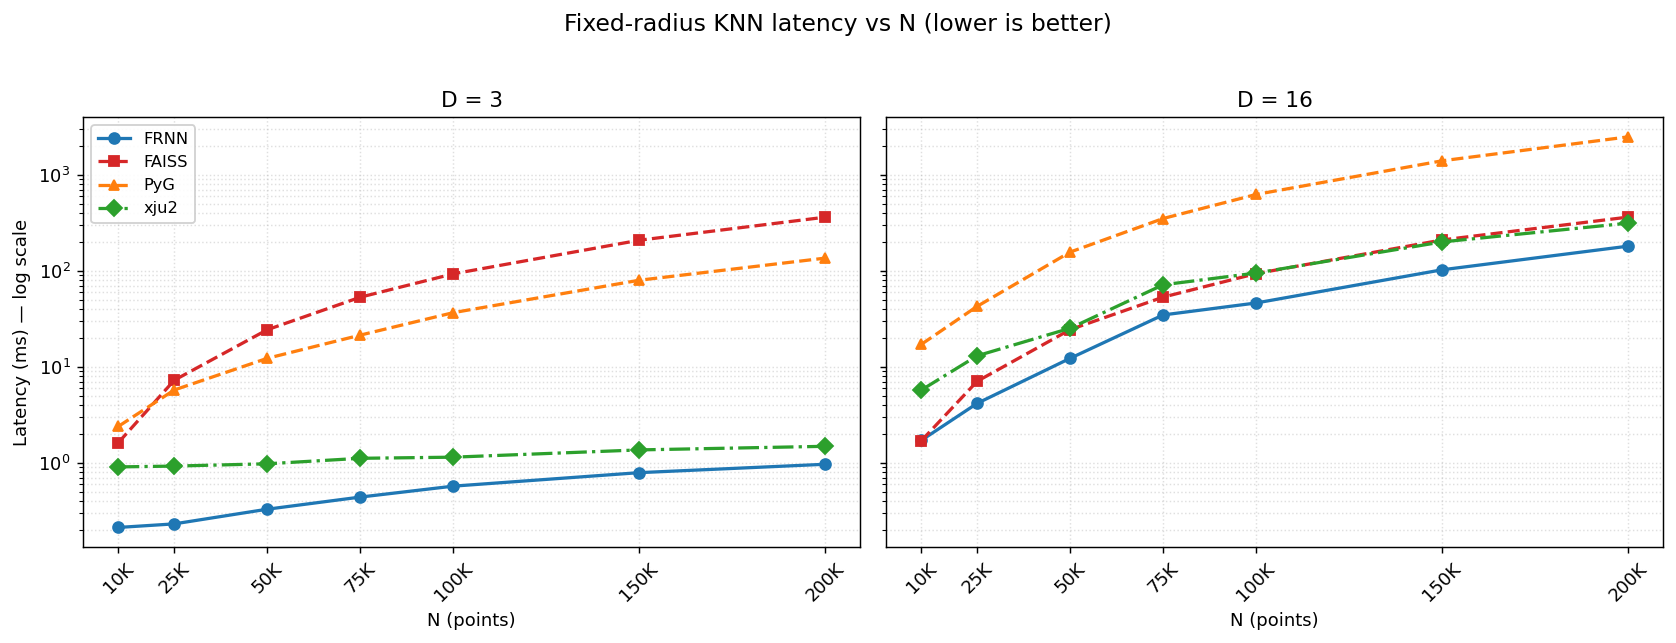
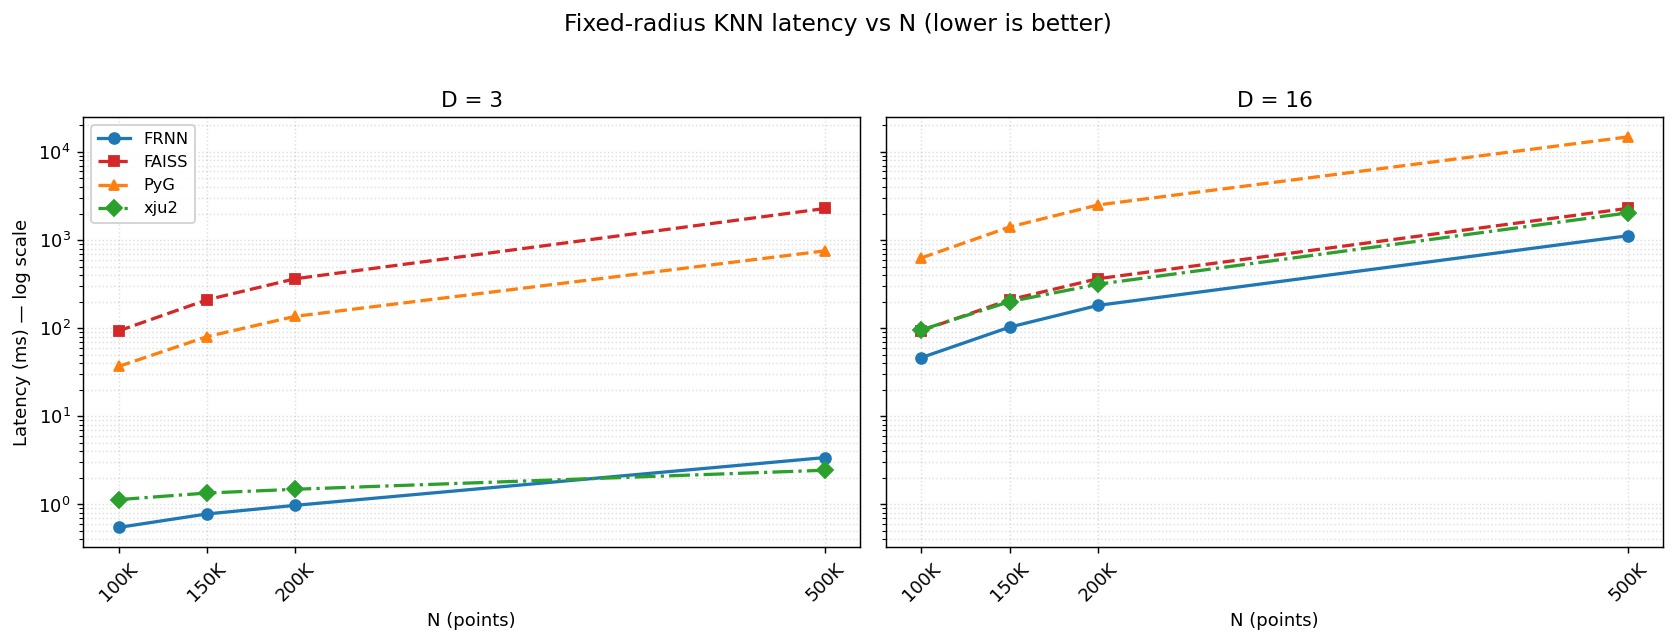
Changed N_sweep values

diff --git a/Tests/benchmark_master.py b/Tests/benchmark_master.py
@@ -24,7 +24,7 @@ for _p in (os.path.join(_ROOT, "xju2_frnn", "FRNN"),
 # D=3 exercises the grid path; D=16 exercises the high-D brute-force path. xju2 only
 # supports D in {2,3}, so it shows up on the D=3 panel only (skip-logged at D=16).
 # Dense N grid up to 200K for smooth scaling curves (D=16 high-N cells are slow: O(N^2)).
-N_SWEEP = [10_000, 25_000, 50_000, 75_000, 100_000, 150_000, 200_000]
+N_SWEEP = [100_000, 150_000, 200_000, 500_000]
 D_SWEEP = [int(d) for d in os.environ.get("D_SWEEP", "3,16").split(",")]
 K, SEED, WARMUP, TRIALS = 16, 1234, 20, 10
 
@@ -107,8 +107,6 @@ def run_baselines(pts_np, D, R):
         print(f"    [PyG] {e}")
     torch.cuda.empty_cache()
 
-    # xju2/FRNN — the lxxue grid kernel only supports D in {2, 3}; higher dims
-    # are genuinely unsupported by the library, so they stay None (skip-logged).
     if D in (3, 16):
         try:
             import frnn as xf
